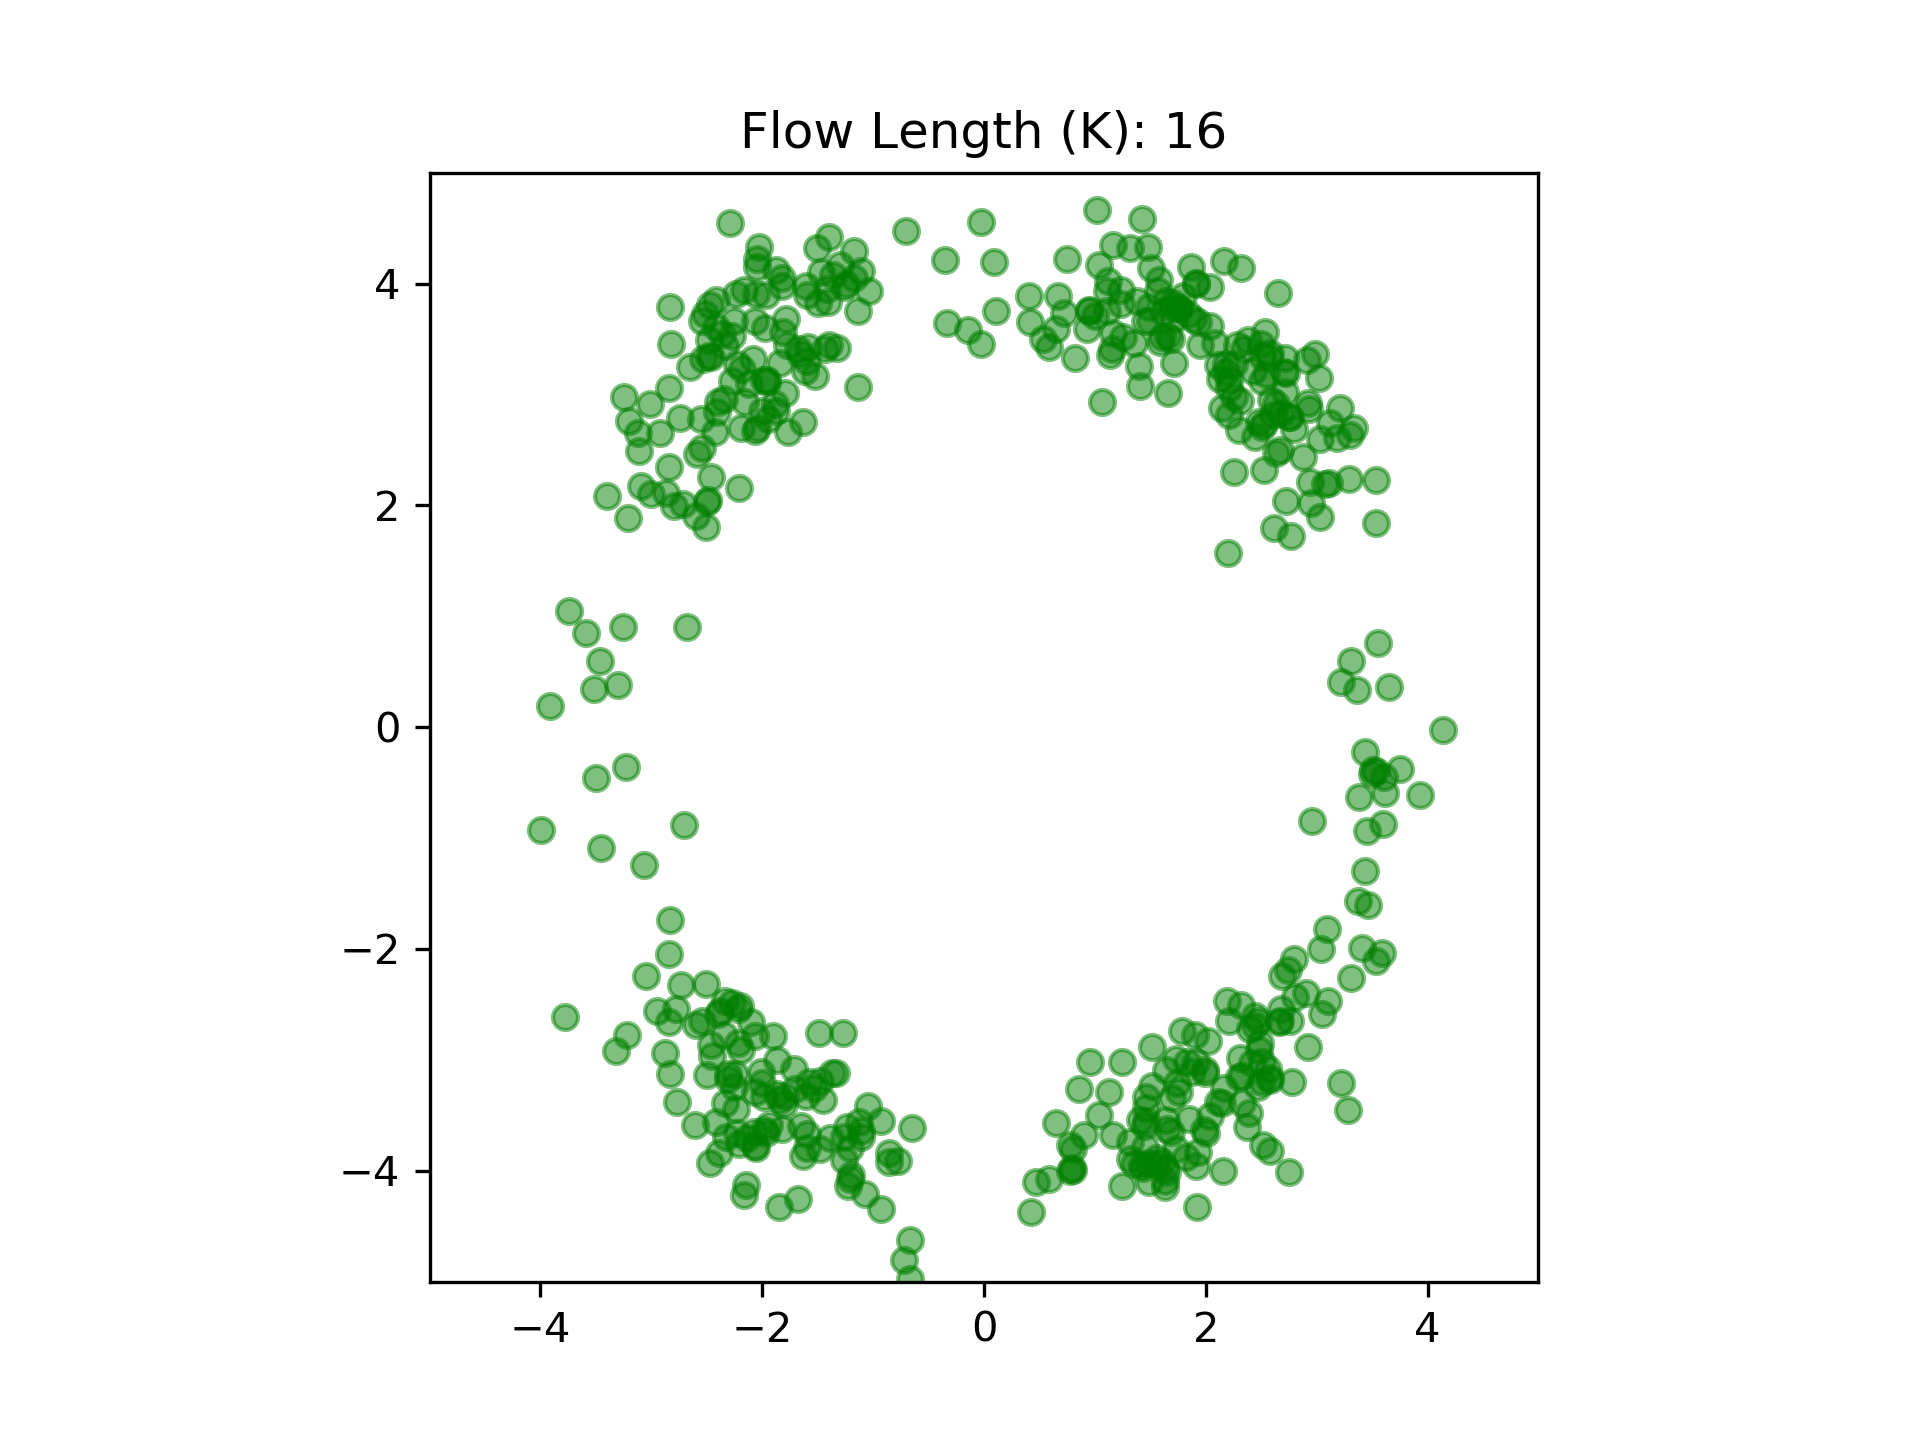
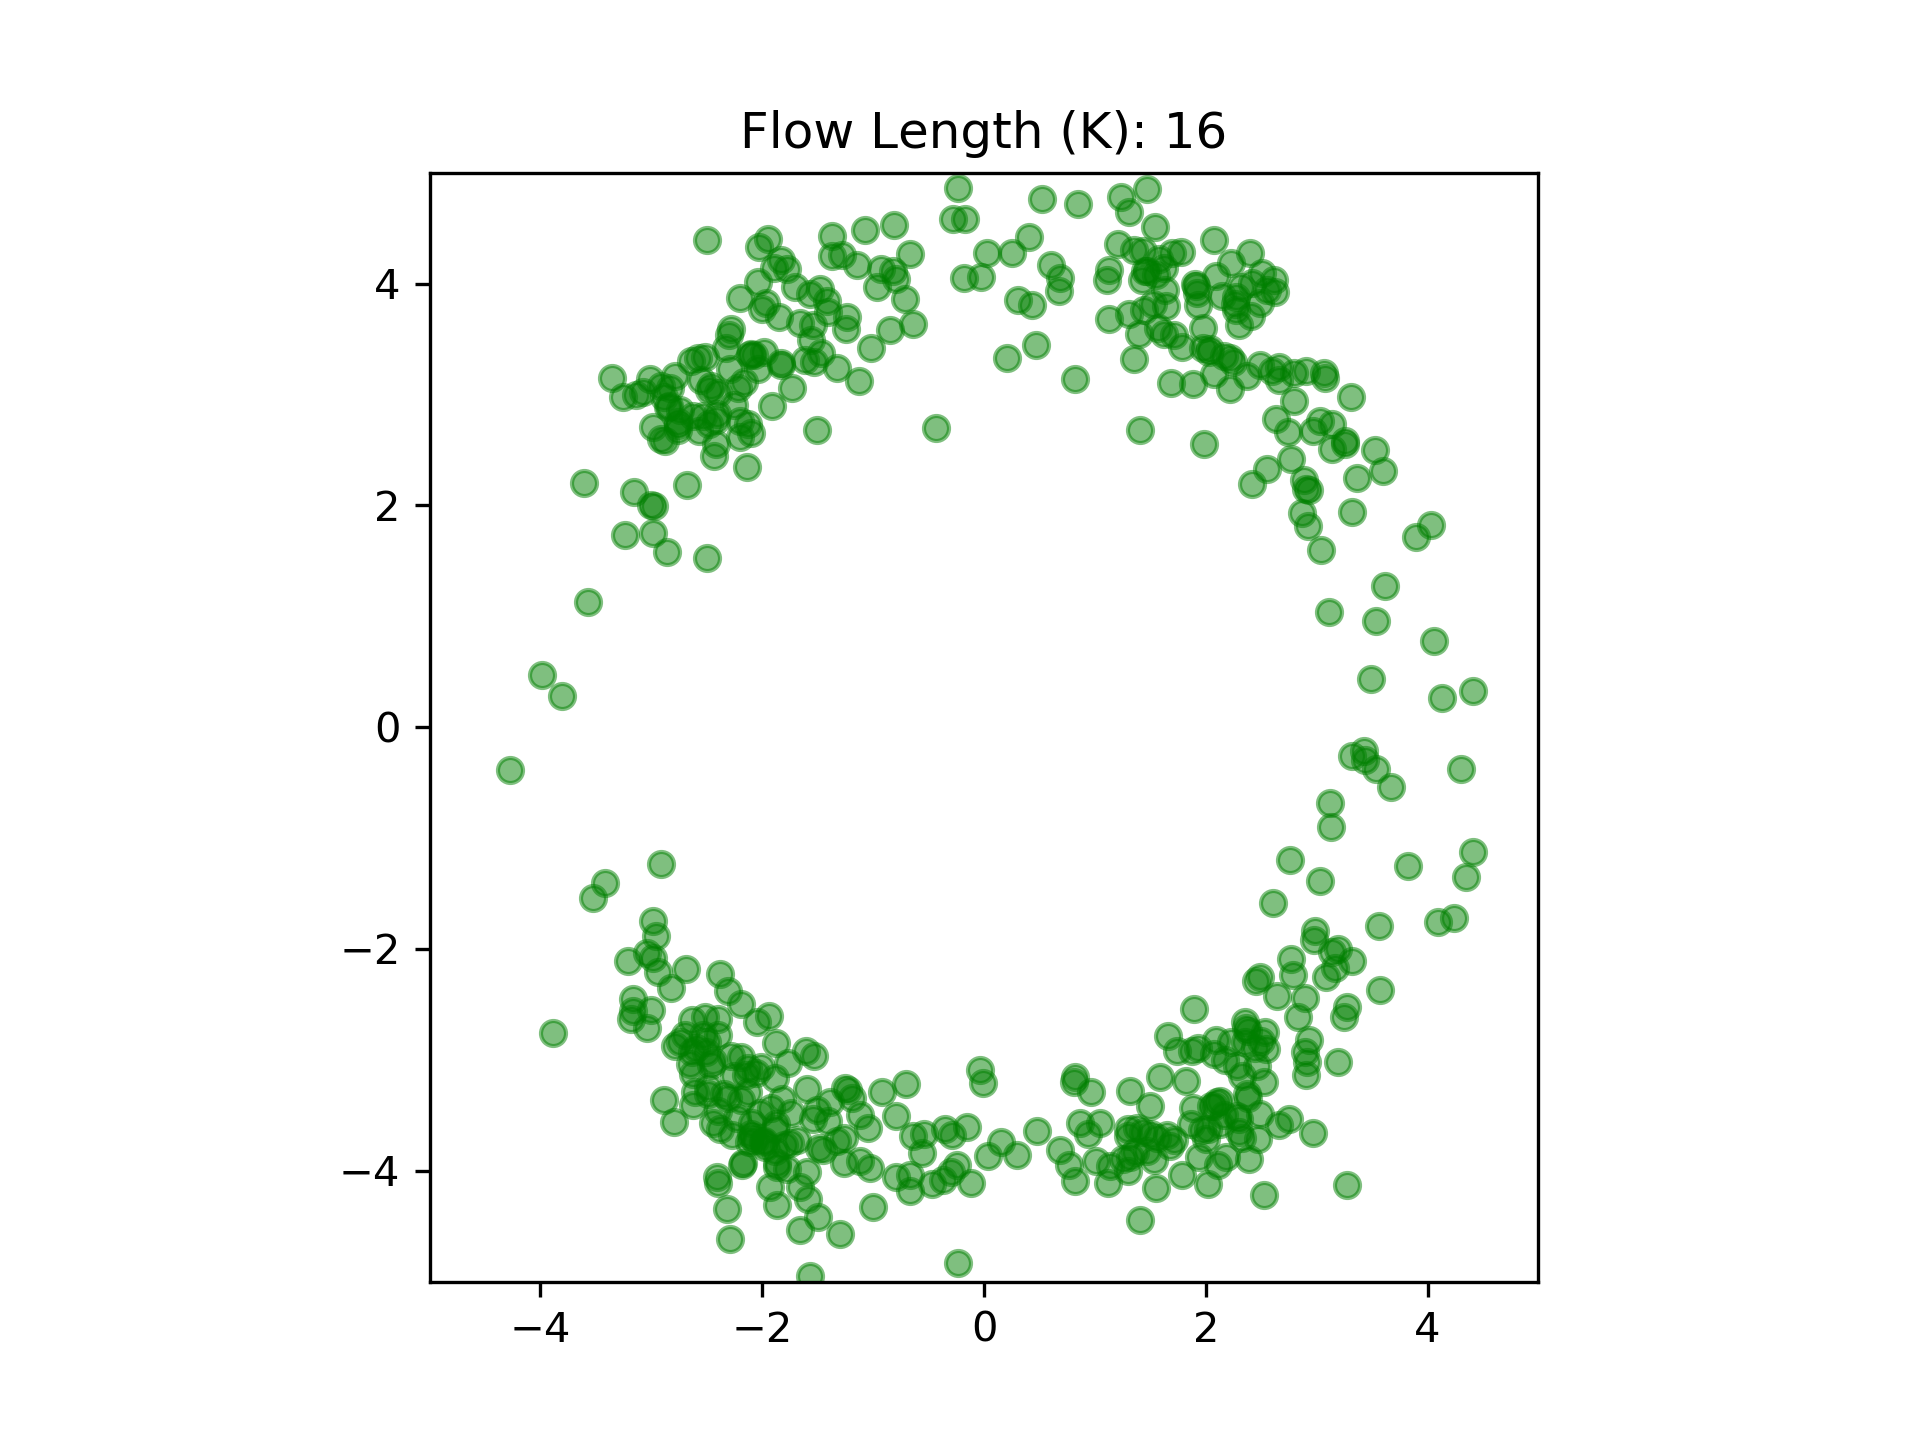
.

Changed region(s): [[0.25, 0.125, 0.7812, 0.9062], [0.4688, 0.2812, 0.5, 0.3125]]

diff --git a/cntk_expansion.py b/cntk_expansion.py
@@ -68,7 +68,7 @@ class __cntk_class_det__(UserFunction):
     
     def backward(self, state, root_gradients):
         arg = state
-        return root_gradients.reshape(root_gradients.shape+(1,1)) * np.ascontiguousarray(self.grad(arg))
+        return root_gradients.reshape(root_gradients.shape+(1, 1)) * np.ascontiguousarray(self.grad(arg))
 
     def infer_outputs(self):
         return [output_variable((), self.inputs[0].dtype, self.inputs[0].dynamic_axes)]
@@ -96,11 +96,16 @@ class __cntk_class_slogdet__(UserFunction):
     def forward(self, argument, device=None, output_to_retain=None):
         return argument, np.ascontiguousarray(np.stack(LA.slogdet(argument)).T)
 
-    def backward(self, state, root_gradients):
+    def backward(self, state, root_gradients): # 수정 필요
         arg = state
+        # # from IPython import embed;embed()
+        # if len(root_gradients.shape) == 1:
+        #     root_gradients = root_gradients.reshape(1,-1)
+        # root_grad_logdet = root_gradients[:, 1] # logdet of slogdet
+        # return root_grad_logdet.reshape(root_grad_logdet.shape+(1,1)) * np.ascontiguousarray(self.grad(arg))
         return root_gradients.reshape(root_gradients.shape+(1,)) * np.ascontiguousarray(self.grad(arg))
 
-    def infer_outputs(self):
+    def infer_outputs(self): # 수정 필요
         return [output_variable((2), self.inputs[0].dtype, self.inputs[0].dynamic_axes)]
         # return [output_variable((1), self.inputs[0].dtype, self.inputs[0].dynamic_axes),
         # output_variable((1), self.inputs[0].dtype, self.inputs[0].dynamic_axes)]

diff --git a/flow.py b/flow.py
@@ -28,8 +28,7 @@ def flow_forward(input_dim: int, act_func_pair: tuple = (None, None), batch_norm
     chunk['W_rot_mat'] = _W = C.parameter((input_dim, input_dim))
     _W.value = random_rotation_matrix = special_ortho_group.rvs(input_dim)
     _out = _ph@_W
-    # log_det_J += input_dim*C.log(C.abs(C.det(_W)))
-    log_det_J += input_dim*C.slogdet(_W)[1]
+    log_det_J += C.log(C.abs(C.det(_W))) # or # log_det_J += C.slogdet(_W)[1]
     
     _half_dim = input_dim//2
     _x1 = _out[:_half_dim]
